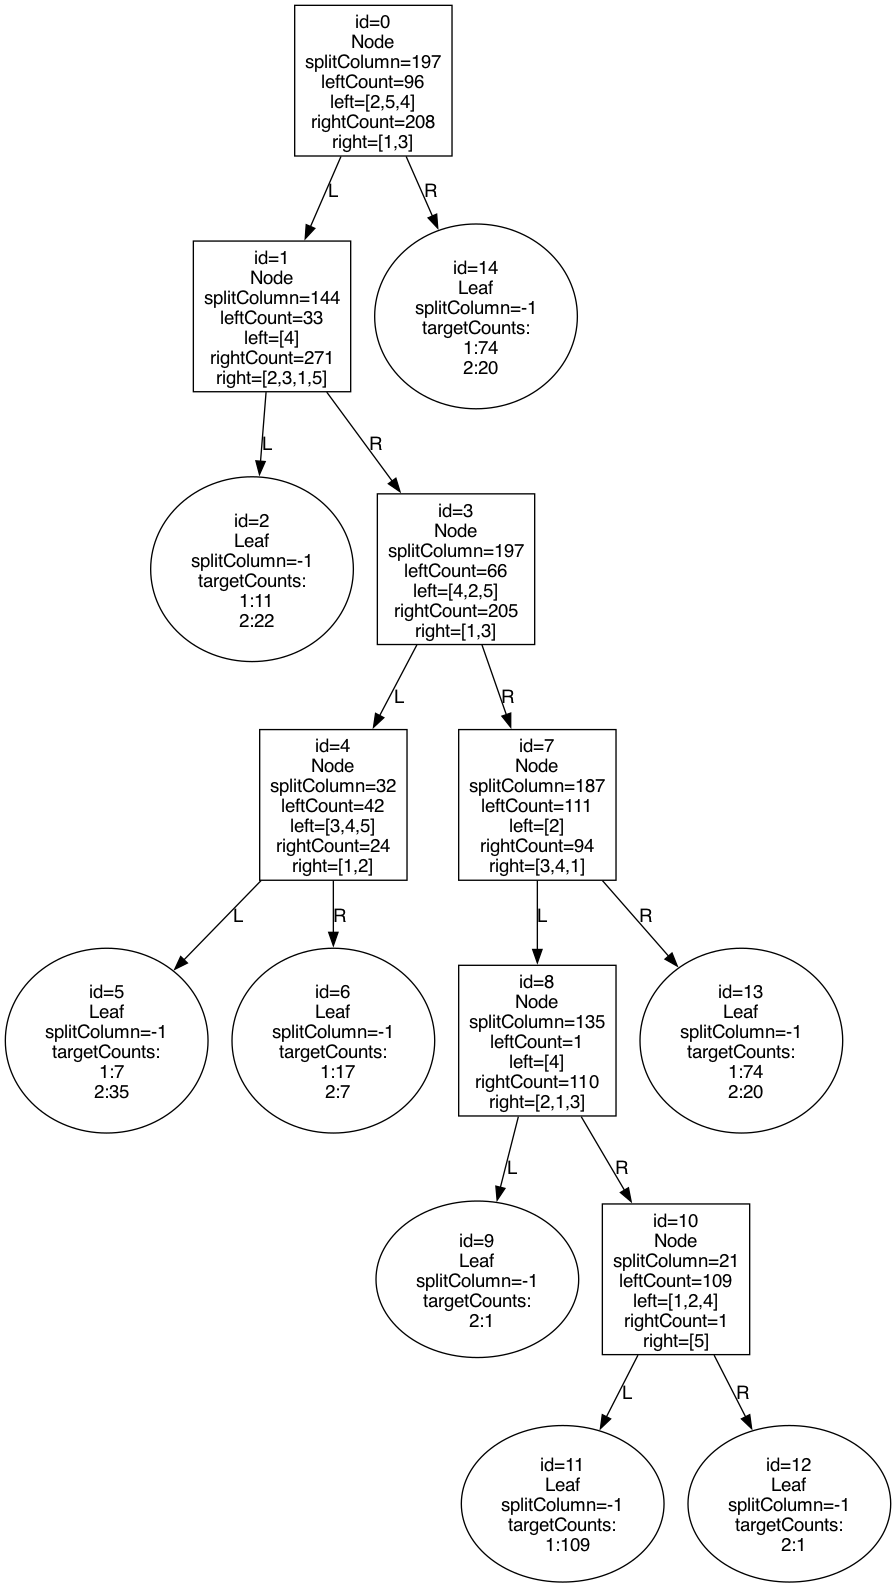
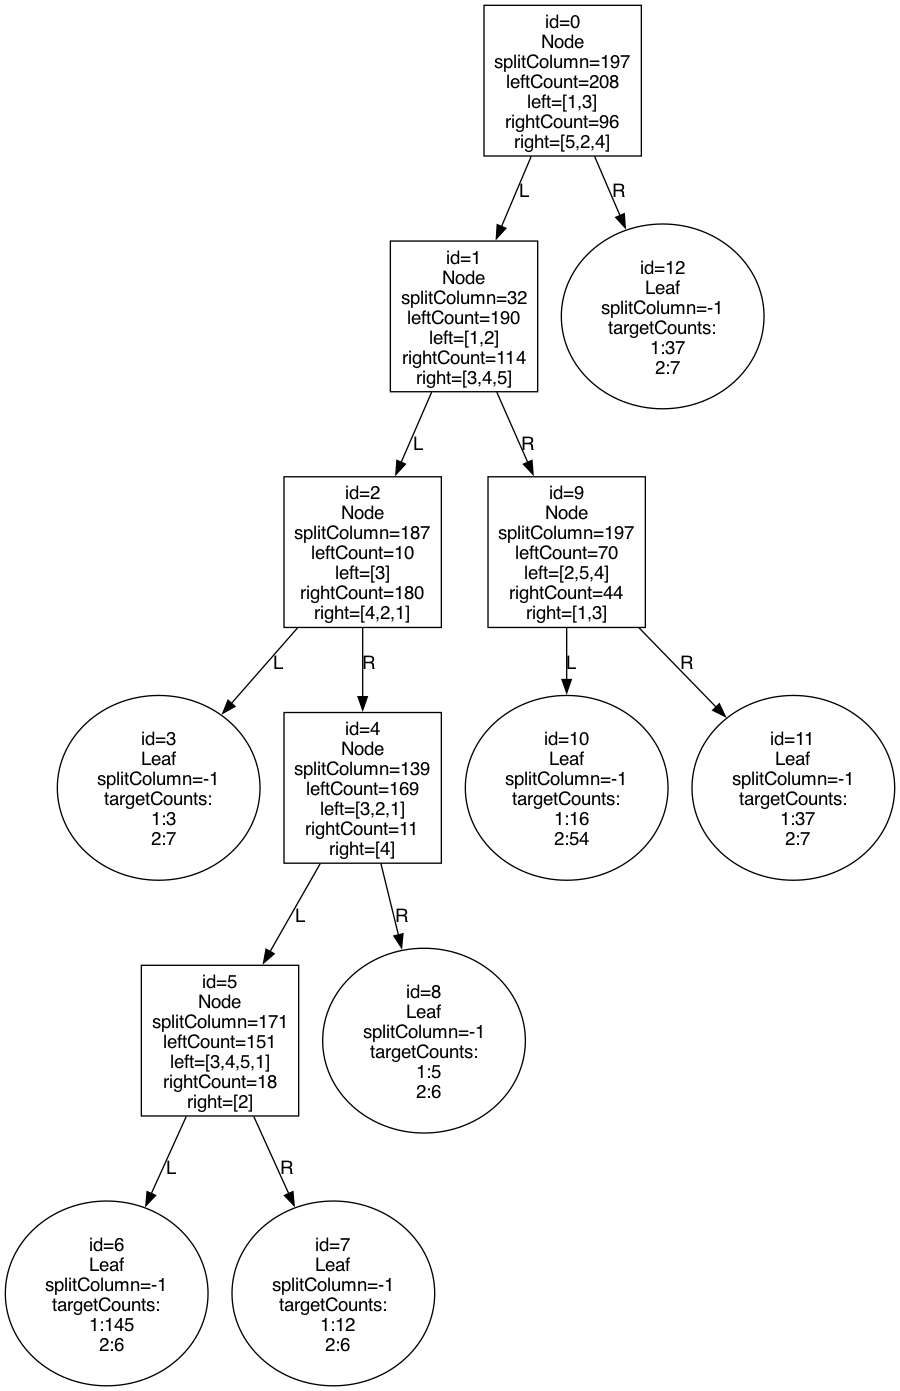
updated

diff --git a/examples/ModelBuilder_example_build_serialized_model.cpp b/examples/ModelBuilder_example_build_serialized_model.cpp
@@ -8,6 +8,8 @@
 #include <string_view>
 #include <vector>
 
+#include "ModelBuilder/ModelBuilder.hpp"
+
 int main(int argc, char** argv) {
   // This example mirrors ModelBuilder_example.cpp, except it does NOT build the model.
   // It assumes the model was already built previously into modelOutDir and simply opens it.
@@ -53,7 +55,8 @@ int main(int argc, char** argv) {
 
     std::cout << "Fetched tree for targetColumn=" << wantTarget
               << " with elements=" << treeArtifact.tree().elementCount() << "\n";
-
+    modelbuilder::ModelBuilder builder;
+    builder.createGraphviz(treeArtifact.tree(), "col_1_tree.dot");
     // Example prediction: create a sample vector sized to the dataset column count.
     // Here we mark everything missing (0) and request conditional prediction.
     std::vector<std::uint64_t> sample(cols, 0);

diff --git a/examples/ModelBuilder_example.cpp b/examples/ModelBuilder_example.cpp
@@ -43,9 +43,9 @@ int main(int argc, char** argv) {
 
     // Parameters.
     const std::size_t maxDepth = 0; // unlimited
-    const double columnAlpha = 0.005;
+    const double columnAlpha = 0.05;
     const bool columnAlphaBonferroni = true;
-    const double partitionAlpha = 0.005;
+    const double partitionAlpha = 0.05;
     const bool partitionAlphaBonferroni = false;
 
     // analysisColumns: all columns except column 0 (id).
